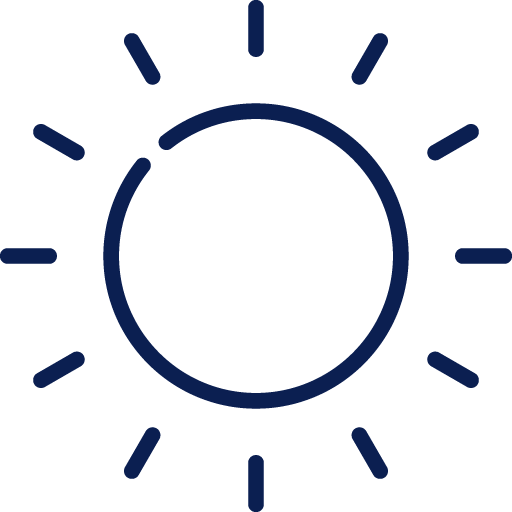
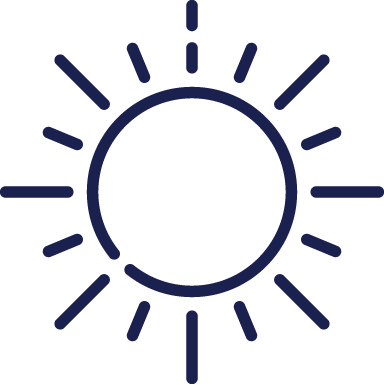
Added images for every weather condition

Changed region(s): [[0.0, 0.0623, 1.0, 0.9351], [0.4688, 0.9974, 0.5312, 1.0]]

diff --git a/assets/js/script.js b/assets/js/script.js
@@ -6,25 +6,25 @@ sun.src = "assets/images/sun.png";
 function getIcon(condition) {
     console.log(condition);
     if (condition === "Rain")
-        return "<img src='assets/images/sun.png'>";
+        return "<img src='assets/images/rain.png'>";
 
     if (condition === "Clouds")
-        return "<img src='assets/images/sun.png'>";
+        return "<img src='assets/images/clouds.png'>";
 
     if (condition === "Clear")
         return "<img src='assets/images/sun.png'>";
 
     if (condition === "Drizzle")
-        return "<img src='assets/images/sun.png'>";
+        return "<img src='assets/images/drizzle.png'>";
 
     if (condition === "Snow")
-        return "<img src='assets/images/sun.png'>";
+        return "<img src='assets/images/snow.png'>";
 
     if (condition === "Mist")
-        return "<img src='assets/images/sun.png'>";
+        return "<img src='assets/images/mist.png'>";
 
     if (condition === "Fog")
-        return "<img src='assets/images/sun.png'>";
+        return "<img src='assets/images/fog.png'>";
 
 }
 
